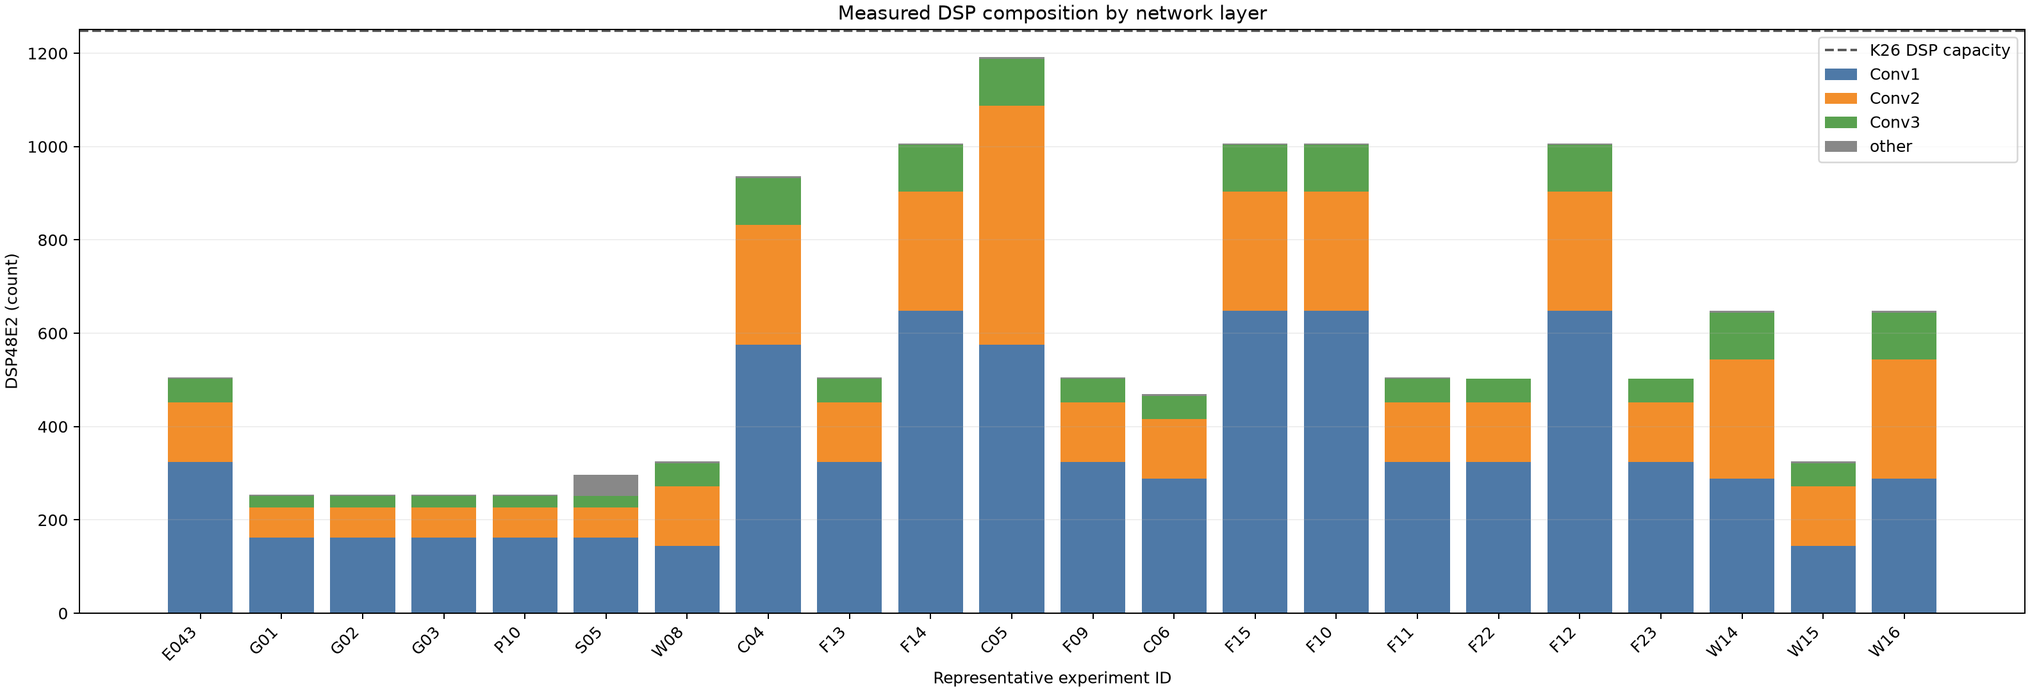
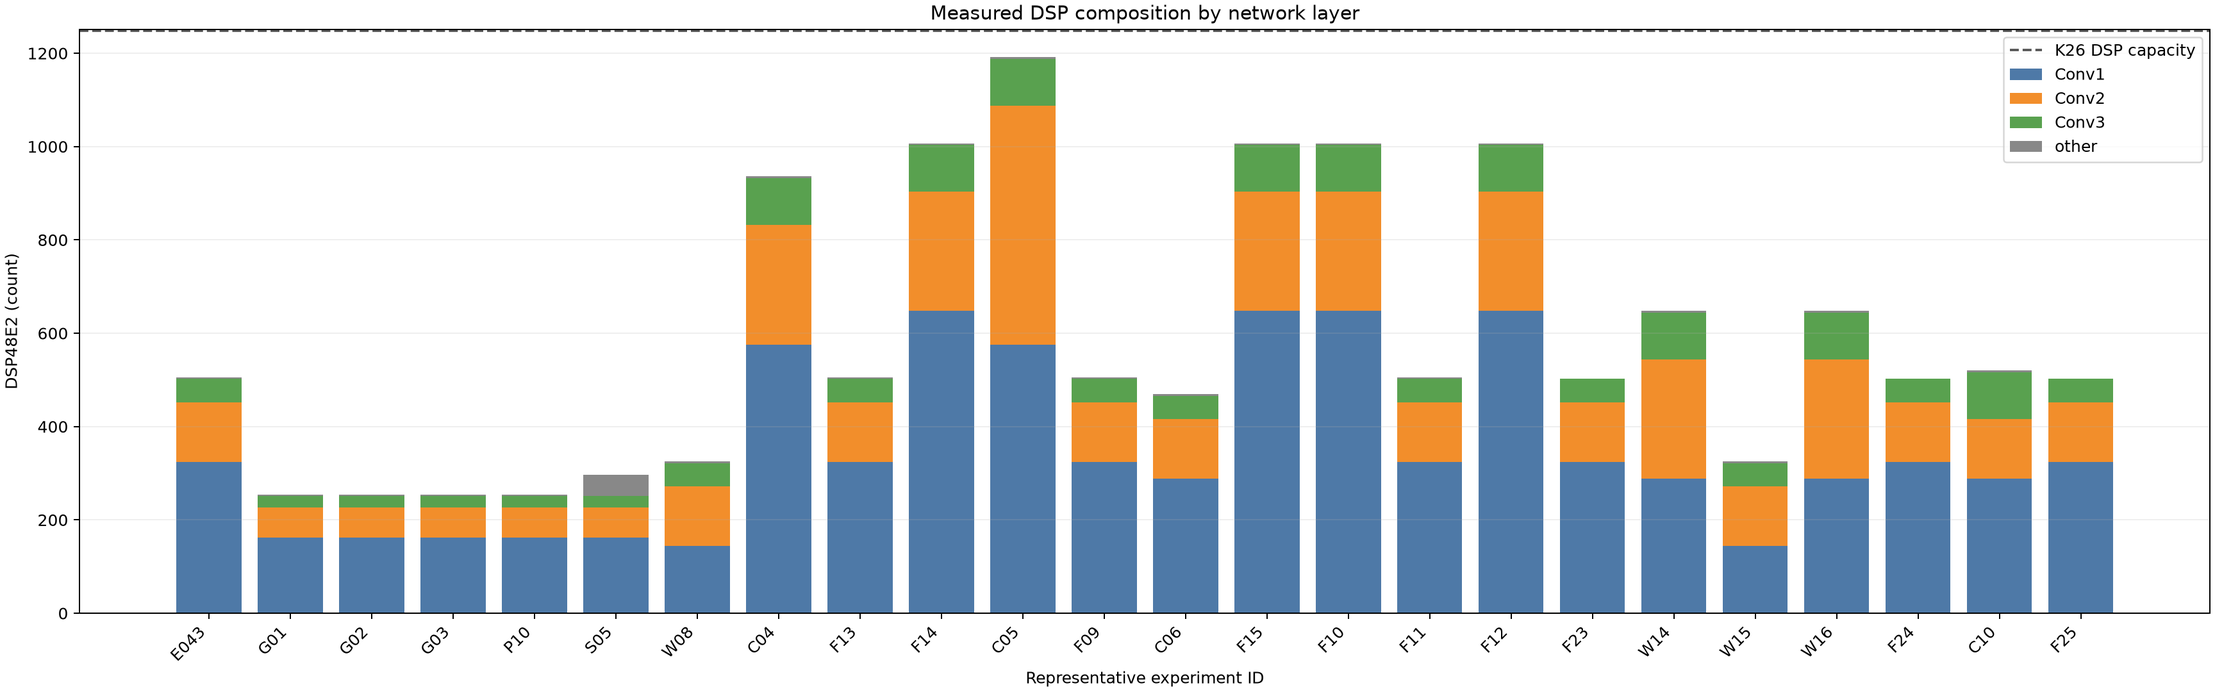
F25 update_estimate_figures_and_architecture_index

diff --git a/exp/plots/architectures.py b/exp/plots/architectures.py
@@ -39,7 +39,7 @@ frames = [row for row in rows if row["scope"] == "frame" and not row["operation"
           num(row,"latency_ms_est") is not None and num(row,"DSP") is not None and
           row["status"] in {"pass","provisional","infeasible"} and
           (row["series"] or row["id"] in {"E043","E057","E060"})]
-fig,ax = plt.subplots(figsize=(13,8),constrained_layout=True)
+fig,ax = plt.subplots(figsize=(15,10),constrained_layout=True)
 labels,grouped = [],{}
 for row in frames:
     grouped.setdefault((num(row,"DSP"),num(row,"latency_ms_est"),row["series"] or "E",
@@ -55,7 +55,9 @@ ax.grid(alpha=.2)
 ax.legend(handles=[Line2D([0],[0],marker="o",color=color,linestyle="",label=series+" series") for series,color in COLORS.items()]+
                   [Line2D([0],[0],marker="x",color="#444444",linestyle="",label="Resource infeasible")],fontsize=8)
 fig.canvas.draw()
-adjust_text(labels,ax=ax,iter_lim=350,arrowprops={"arrowstyle":"-","color":"#888888","lw":.5})
+fig.set_layout_engine("none")
+adjust_text(labels,ax=ax,iter_lim=1000,expand=(1.2,1.3),force_text=(.3,.5),
+            arrowprops={"arrowstyle":"-","color":"#888888","lw":.5})
 save(fig,"architecture_pareto.png")
 
 compositions = read("dsp_composition.csv")
@@ -82,39 +84,46 @@ for metric,unit,name in (("DSP","DSP48E2 (count)","estimate_actual_dsp.png"),
                          ("latency_cycles","Frame/kernel latency (cycles)","estimate_actual_cycles.png")):
     points = [row for row in estimates if row["metric"] == metric and num(row,"estimate") is not None and
               num(row,"actual") is not None and num(row,"estimate") >= 0 and num(row,"actual") >= 0]
-    fig,ax = plt.subplots(figsize=(10,8),constrained_layout=True)
-    texts = []
-    for row in points:
-        paper,actual = num(row,"estimate"),num(row,"actual")
-        ax.scatter(paper,actual,color=COLORS[row["series"]],marker="s" if row["scope"] == "PE" else "^" if row["scope"] == "layer" else "o",s=35)
-        texts.append(ax.text(paper,actual,row["id"],fontsize=7))
-    if points:
-        high = max(max(num(r,"estimate"),num(r,"actual")) for r in points)*1.4
-        includes_zero = any(num(r,"estimate") == 0 or num(r,"actual") == 0 for r in points)
-        positives = [num(r,key) for r in points for key in ("estimate","actual") if num(r,key) > 0]
-        low = min(positives)*.7 if positives else 1
-        high = max(high,low*2)
-        axis = np.geomspace(low,high,100)
-        if includes_zero:
-            axis = np.concatenate(([0],axis))
-        ax.plot(axis,axis,color="#555555",label="Estimate = actual")
-        ax.fill_between(axis,axis*.8,axis*1.2,color="#cccccc",alpha=.3,label="20% band")
-        if includes_zero:
-            ax.set_xscale("symlog",linthresh=1)
-            ax.set_yscale("symlog",linthresh=1)
-        else:
-            ax.set_xscale("log")
-            ax.set_yscale("log")
-    ax.set(title=f"Paper estimates vs measured {metric}",xlabel="Paper estimate: "+unit,ylabel="Parsed actual: "+unit)
-    ax.grid(alpha=.2)
-    handles,legend_labels = ax.get_legend_handles_labels()
+    fig,axes = plt.subplots(1,2,figsize=(17,8),width_ratios=(2,1),constrained_layout=True)
+    annotations = []
+    for ax,is_pe in zip(axes,(False,True)):
+        subset = [row for row in points if (row["scope"] == "PE") == is_pe]
+        texts, grouped = [], {}
+        for row in subset:
+            paper,actual = num(row,"estimate"),num(row,"actual")
+            ax.scatter(paper,actual,color=COLORS[row["series"]],marker="s" if is_pe else "^" if row["scope"] == "layer" else "o",s=35)
+            grouped.setdefault((paper,actual,row["series"],row["scope"]),[]).append(row["id"])
+        for (paper,actual,_,_),ids in grouped.items():
+            texts.append(ax.text(paper,actual,",".join(ids),fontsize=7))
+        if subset:
+            high = max(max(num(r,"estimate"),num(r,"actual")) for r in subset)*1.4
+            includes_zero = any(num(r,"estimate") == 0 or num(r,"actual") == 0 for r in subset)
+            positives = [num(r,key) for r in subset for key in ("estimate","actual") if num(r,key) > 0]
+            low = min(positives)*.7 if positives else 1
+            high = max(high,low*2)
+            axis = np.geomspace(low,high,100)
+            if includes_zero:
+                axis = np.concatenate(([0],axis))
+            ax.plot(axis,axis,color="#555555",label="Estimate = actual")
+            ax.fill_between(axis,axis*.8,axis*1.2,color="#cccccc",alpha=.3,label="20% band")
+            ax.set_xscale("symlog" if includes_zero else "log",**({"linthresh":1} if includes_zero else {}))
+            ax.set_yscale("symlog" if includes_zero else "log",**({"linthresh":1} if includes_zero else {}))
+        ax.set(title="Processing elements" if is_pe else "Full frames and layers",
+               xlabel="Paper estimate: "+unit,ylabel="Parsed actual: "+unit)
+        ax.grid(alpha=.2)
+        annotations.append((ax,texts))
+    handles,_ = axes[0].get_legend_handles_labels()
     handles += [Line2D([0],[0],marker="o",color=COLORS[series],linestyle="",label=series+" series")
                 for series in sorted({row["series"] for row in points})]
     handles += [Line2D([0],[0],marker=marker,color="#444444",linestyle="",label=label)
                 for marker,label in (("s","PE"),("^","Layer"),("o","Frame"))]
-    ax.legend(handles=handles,fontsize=7,ncol=2)
+    fig.legend(handles=handles,fontsize=8,ncol=6,loc="outside lower center")
+    fig.suptitle(f"Paper estimates vs measured {metric}")
     fig.canvas.draw()
-    adjust_text(texts,ax=ax,iter_lim=250,arrowprops={"arrowstyle":"-","color":"#888888","lw":.4})
+    fig.set_layout_engine("none")
+    for ax,texts in annotations:
+        adjust_text(texts,ax=ax,iter_lim=1000,expand=(1.2,1.3),force_text=(.3,.5),
+                    arrowprops={"arrowstyle":"-","color":"#888888","lw":.4})
     save(fig,name)
 
 g = [row for row in rows if row["id"] in {"G01","G02","G03"}]

diff --git a/experiments/ARCH_SUMMARY.md b/experiments/ARCH_SUMMARY.md
@@ -1,6 +1,6 @@
 # SRCNN K26 architecture exploration
 
-The fastest resource-feasible supplied-image point is [F24](F24_affine_weight_loader_T16_2p5ns/F24.md) at 2.830503377ms HLS-estimated latency. Packing and integer Winograd primitives pass exact checks, while full-network results include fabric, memory and scheduling costs absent from DSP-only budgets. Missing comic keeps every precision acceptance provisional; routed timing, RTL cycles and board validation are distinct evidence.
+The fastest resource-feasible supplied-image point is [F25](F25_nested_weight_loader_T16_2p5ns/F25.md) at 2.64226ms HLS-estimated latency. Packing and integer Winograd primitives pass exact checks, while full-network results include fabric, memory and scheduling costs absent from DSP-only budgets. Missing comic keeps every precision acceptance provisional; routed timing, RTL cycles and board validation are distinct evidence.
 
 Re-run frozen HLS records with fresh IDs using the [reproduction guide](REPRODUCE.md). Original reserved IDs remain immutable.
 
@@ -8,9 +8,9 @@ Re-run frozen HLS records with fresh IDs using the [reproduction guide](REPRODUC
 
 | id | design | precision_w_a_acc | T_target | clock_target_ns | clock_est_ns | latency_cycles | interval_cycles | latency_ms_est | DSP | BRAM18K | URAM | LUT | FF | delta_psnr | status |
 | --- | --- | --- | --- | --- | --- | --- | --- | --- | --- | --- | --- | --- | --- | --- | --- |
-| [F24](F24_affine_weight_loader_T16_2p5ns/F24.md) | designs/continuous_affine_load_v1 | w10a10acc23 | 16 | 2.5 | 2.699 | 1048723.0 | 1048724.0 | 2.830503377 | 502.0 | 73.0 | 0.0 | 69290.0 | 124577.0 | -0.0695141811880653 | provisional |
+| [F25](F25_nested_weight_loader_T16_2p5ns/F25.md) | designs/continuous_nested_load_v1 | w10a10acc23 | 16 | 2.5 | 2.377 | 1056904.0 | 1056905.0 | 2.64226 | 502.0 | 73.0 | 0.0 | 69976.0 | 125404.0 | -0.0695141811880653 | provisional |
 
-HLS-estimate improvement over first-phase E043: 2.4516x. This ratio is not a measured board speedup.
+HLS-estimate improvement over first-phase E043: 2.6262x. This ratio is not a measured board speedup.
 
 Actual verification of the current HLS winner:
 
@@ -130,7 +130,7 @@ An unimplemented raw-bank combination follow-up would still need about 96004.0 L
 
 Storage controls map shallow wide FIFOs to LUTRAM and Conv3 line banks to20 URAM. Continuous engines separate window generation, flatten pixel/fold iterations, shift fixed channel registers and register balanced fabric reductions. Old padding versus online read/emit padding isolates finite-FIFO row serialization. Clock/T controls test actual II, resource and timing limits; final RTL and routed measurements are separate from HLS estimates.
 
-Measured direction result: [F24](F24_affine_weight_loader_T16_2p5ns/F24.md) is its fastest provisional resource-feasible point at 2.830503377ms, with 502.0 DSP and 69290.0 LUT. RTL and routing must be assessed separately.
+Measured direction result: [F25](F25_nested_weight_loader_T16_2p5ns/F25.md) is its fastest provisional resource-feasible point at 2.64226ms, with 502.0 DSP and 69976.0 LUT. RTL and routing must be assessed separately.
 
 The exact IEEE output encoder [F20](F20_ieee_decode_bit_exact_sdk_retry_unique_object/F20.md) uses 0.0 DSP, 242.0 LUT and 52.0 FF at 2.051ns estimated clock; its legacy control [F21](F21_ieee_decode_legacy_control_sdk_retry_unique_object/F21.md) uses 3.0 DSP at 3.239ns. The independent network copy [F23](F23_continuous_ieee_T16_2p5ns/F23.md) keeps the same quantization and weights, reaches 2.822ns estimated clock and removes the legacy output scaling DSPs. Continuous folds reduce the repeated per-pixel pipeline fill/drain; assess finite-FIFO RTL cycles and routed timing in the final verification table independently of that HLS estimate.
 
@@ -140,6 +140,7 @@ Loader controls preserve all inference engines, precision and runtime parameters
 | --- | --- | --- | --- | --- | --- | --- | --- | --- | --- |
 | [F23](F23_continuous_ieee_T16_2p5ns/F23.md) | 2.5 | 2.822 | 1048730.0 | 2.95951606 | 502.0 | 73.0 | 70449.0 | 125618.0 | provisional |
 | [F24](F24_affine_weight_loader_T16_2p5ns/F24.md) | 2.5 | 2.699 | 1048723.0 | 2.830503377 | 502.0 | 73.0 | 69290.0 | 124577.0 | provisional |
+| [F25](F25_nested_weight_loader_T16_2p5ns/F25.md) | 2.5 | 2.377 | 1056904.0 | 2.64226 | 502.0 | 73.0 | 69976.0 | 125404.0 | provisional |
 
 | id | scope | T_target | latency_cycles | latency_ms_est | DSP | BRAM18K | URAM | LUT | FF | bit_exact | border_mse | ii_ok | status |
 | --- | --- | --- | --- | --- | --- | --- | --- | --- | --- | --- | --- | --- | --- |
@@ -167,6 +168,7 @@ Loader controls preserve all inference engines, precision and runtime parameters
 | [F12](F12_continuous_T8_online_3p33ns_split4000/F12.md) | frame | 8 | 528501.0 | 1.75990833 | 1007.0 | 73.0 | 0.0 | 97112.0 | 196314.0 | True | 1.661846957728205e-05 | True | infeasible |
 | [F23](F23_continuous_ieee_T16_2p5ns/F23.md) | frame | 16 | 1048730.0 | 2.95951606 | 502.0 | 73.0 | 0.0 | 70449.0 | 125618.0 | True | 1.661846957728205e-05 | True | provisional |
 | [F24](F24_affine_weight_loader_T16_2p5ns/F24.md) | frame | 16 | 1048723.0 | 2.830503377 | 502.0 | 73.0 | 0.0 | 69290.0 | 124577.0 | True | 1.661846957728205e-05 | True | provisional |
+| [F25](F25_nested_weight_loader_T16_2p5ns/F25.md) | frame | 16 | 1056904.0 | 2.64226 | 502.0 | 73.0 | 0.0 | 69976.0 | 125404.0 | True | 1.661846957728205e-05 | True | provisional |
 
 ## All Architectures
 
@@ -182,6 +184,7 @@ Frame records only, ordered by HLS-estimated latency. Microkernels and validatio
 | [W17](W17_narrow_raw_banks_T8/W17.md) | W | designs/winograd_rawbank_v1 | 8 | 2.130248 | 648.0 | 146.0 | 93166.0 | 122399.0 | -0.0695141811880653 | infeasible |
 | [W14](W14_fixed_tiles_T8_allcontinuous_4ns_split4000/W14.md) | W | designs/winograd_continuous_r2 | 8 | 2.130248 | 648.0 | 146.0 | 148013.0 | 182409.0 | -0.0695141811880653 | infeasible |
 | [C10](C10_wino_conv2w8_continuous_T8_split4000/C10.md) | C | designs/winograd_mixed_packing_r2 | 8 | 2.130248 | 520.0 | 146.0 | 150851.0 | 179452.0 | -0.07589037644656216 | infeasible |
+| [F25](F25_nested_weight_loader_T16_2p5ns/F25.md) | F | designs/continuous_nested_load_v1 | 16 | 2.64226 | 502.0 | 73.0 | 69976.0 | 125404.0 | -0.0695141811880653 | provisional |
 | [F24](F24_affine_weight_loader_T16_2p5ns/F24.md) | F | designs/continuous_affine_load_v1 | 16 | 2.830503377 | 502.0 | 73.0 | 69290.0 | 124577.0 | -0.0695141811880653 | provisional |
 | [F23](F23_continuous_ieee_T16_2p5ns/F23.md) | F | designs/continuous_ieee_v1 | 16 | 2.95951606 | 502.0 | 73.0 | 70449.0 | 125618.0 | -0.0695141811880653 | provisional |
 | [F22](F22_continuous_ieee_T16_3ns/F22.md) | F | designs/continuous_ieee_v1 | 16 | 3.146133 | 502.0 | 73.0 | 69483.0 | 121696.0 | -0.0695141811880653 | provisional |
@@ -336,6 +339,7 @@ All numeric values come from frozen plans and parsed reports. Actual means csynt
 | [W16](W16_fixed_tiles_T8_allcontinuous_3p33ns_split4000/W16.md) | frame | 647.0 | 648.0 | 0.15455950540959051 | 620200.0 | 532569.0 | -14.129474363108674 | infeasible |
 | [F24](F24_affine_weight_loader_T16_2p5ns/F24.md) | frame | 502.0 | 502.0 | 0.0 | 1068730.0 | 1048723.0 | -1.8720350322345203 | provisional |
 | [C10](C10_wino_conv2w8_continuous_T8_split4000/C10.md) | frame | 519.0 | 520.0 | 0.19267822736031004 | 620200.0 | 532562.0 | -14.13060303128023 | infeasible |
+| [F25](F25_nested_weight_loader_T16_2p5ns/F25.md) | frame | 502.0 | 502.0 | 0.0 | 1068723.0 | 1056904.0 | -1.1058992835374593 | provisional |
 
 Largest percentage deviations (a zero paper denominator has no percentage):
 
@@ -404,6 +408,7 @@ DATAFLOW warnings are retained in [dataflow_warnings.csv](dataflow_warnings.csv)
 | [W16](W16_fixed_tiles_T8_allcontinuous_3p33ns_split4000/W16.md) | 5 | infeasible |
 | [F24](F24_affine_weight_loader_T16_2p5ns/F24.md) | 5 | provisional |
 | [C10](C10_wino_conv2w8_continuous_T8_split4000/C10.md) | 5 | infeasible |
+| [F25](F25_nested_weight_loader_T16_2p5ns/F25.md) | 5 | provisional |
 
 ## Failed Directions
 
@@ -479,4 +484,4 @@ Use the best exact resource-feasible architecture as the integration candidate o
 
 ![Conv3 core and pad resource comparison](figs/conv3_core_resources.png)
 
-Generated from archived evidence at 2026-10-11T02:54:12+00:00.
+Generated from archived evidence at 2026-10-11T03:06:19+00:00.

diff --git a/experiments/F25_nested_weight_loader_T16_2p5ns/F25.md b/experiments/F25_nested_weight_loader_T16_2p5ns/F25.md
@@ -72,13 +72,11 @@ Independent frozen F24 source copy; add LOOP_FLATTEN off to the Conv1 weight loa
 python3 exp/reproduce_exp.py F25 --run
 ```
 
-This allocates a new ID and restores frozen sources; see [reproduction guide](../REPRODUCE.md). Original reserved invocation:
+Allocates a fresh ID and restores frozen design/testbench sources; verification also rebuilds its parent. See [reproduction guide](../REPRODUCE.md). Original reserved invocation:
 
 ```sh
 python3 exp/run_exp.py --config exp/configs/F25.json
 ```
-
-Settings path is recorded in config.json.
 
 ## 5. Results / 结果
 
@@ -121,18 +119,6 @@ Settings path is recorded in config.json.
 | git_commit | ab5c5e94beb6f6f1374e9bb547b27bf6fe1e055a |
 | md_path | F25_nested_weight_loader_T16_2p5ns/F25.md |
 | notes | unknown |
-
-<!-- AUTO: resource percentages -->
-
-| resource | count | device_capacity | device_pct | gate_pct | within_gate |
-| --- | --- | --- | --- | --- | --- |
-| DSP | 502.0 | 1248 | 40.22435897435897 | 100 | True |
-| BRAM18K | 73.0 | 288 | 25.34722222222222 | 100 | True |
-| URAM | 0.0 | 64 | 0.0 | 100 | True |
-| LUT | 69976.0 | 117120 | 59.74726775956284 | 70.0 | True |
-| FF | 125404.0 | 234240 | 53.536543715846996 | 70.0 | True |
-
-<!-- END: resource percentages -->
 
 ### Pipeline loops
 
@@ -192,9 +178,88 @@ Settings path is recorded in config.json.
 | windows3 | 0.0 | 36.0 | 0.0 | 6025.0 | 19318.0 |
 | write_output | 0.0 | 0.0 | 0.0 | 565.0 | 406.0 |
 
+<!-- AUTO: resource percentages -->
+
+| resource | count | device_capacity | device_pct | gate_pct | within_gate |
+| --- | --- | --- | --- | --- | --- |
+| DSP | 502.0 | 1248 | 40.22435897435897 | 100 | True |
+| BRAM18K | 73.0 | 288 | 25.34722222222222 | 100 | True |
+| URAM | 0.0 | 64 | 0.0 | 100 | True |
+| LUT | 69976.0 | 117120 | 59.74726775956284 | 70.0 | True |
+| FF | 125404.0 | 234240 | 53.536543715846996 | 70.0 | True |
+
+<!-- END: resource percentages -->
+
 ## 6. Interpretation / 解读
 
 Compare F24/F25 loader loop depth, restart cycles and clock, separately from unchanged inference II. Turning off flattening can trade a simpler counter path for repeated pipeline fill/drain. Preserve negative timing/resource outcomes and stop this control investigation after the measured comparison.
+
+Continuous scheduling separates window generation and MAC folds, shifts channel registers and explicitly registers fabric reduction trees. This can remove pixel fill/drain but costs pipeline registers and wide window FIFOs. Online padding overlaps source reads with padded writes; old row serialization can create finite-FIFO stalls absent from maximum-component HLS estimates. RTL cycles and routed slack remain the final evidence.
+
+Estimate audit (parsed values; zero estimates have no percentage denominator):
+
+| metric | estimate | actual | deviation_pct | over20pct |
+| --- | --- | --- | --- | --- |
+| DSP | 502.0 | 502.0 | 0.0 | False |
+| BRAM18K | 73.0 | 73.0 | 0.0 | False |
+| URAM | 0.0 | 0.0 | unknown | False |
+| LUT | 69790.0 | 69976.0 | 0.2665138271958689 | False |
+| FF | 125577.0 | 125404.0 | -0.1377640810020897 | False |
+| latency_cycles | 1068723.0 | 1056904.0 | -1.1058992835374593 | False |
+
+Whole layer evidence from csynth XML (child pipeline reports are not added again):
+
+| module | latency_cycles | DSP | BRAM18K | LUT | FF |
+| --- | --- | --- | --- | --- | --- |
+| conv1_stream | 1040416.0 | 324.0 | 8.0 | 9749.0 | 46528.0 |
+| conv2_stream | 1040413.0 | 128.0 | 0.0 | 3629.0 | 17780.0 |
+| conv3_stream | 1040415.0 | 50.0 | 36.0 | 19190.0 | 34772.0 |
+
+Measured control-module comparison (identical precision and T):
+
+| id | module | clock_est_ns | latency_cycles | DSP | BRAM18K | LUT | FF |
+| --- | --- | --- | --- | --- | --- | --- | --- |
+| F24 | srcnn_Pipeline_load1_channels_load1_rows_load1 | 2.699 | 5194.0 | 0.0 | 0.0 | 2116.0 | 1061.0 |
+| F25 | srcnn_Pipeline_load1 | 1.825 | 21.0 | 0.0 | 0.0 | 2714.0 | 1660.0 |
+
+Only the Conv1 loader organization changes in this control pair. F24's report removes the quotient-address multiplier but identifies the flattened kx counter's compare/and/select/add/store path as the new clock limit. F25 tests an unflattened inner loop; its counter clock must be weighed against repeated pipeline drain. The inference engines, coefficient precision and runtime parameter contract remain identical.
+
+Pipeline depth and II evidence; nested pixel schedules pay the reported iteration latency at every restart:
+
+| module | loop | IterationLatency | PipelineDepth | actual_ii | target_ii | ii_ok |
+| --- | --- | --- | --- | --- | --- | --- |
+| conv2_stream | continuous_c2_fold | unknown | 13 | 1.0 | 1 | True |
+| engine1 | continuous_c1_fold | unknown | 14 | 1.0 | 1 | True |
+| engine3 | continuous_c3_fold | unknown | 13 | 1.0 | 1 | True |
+| online_pad_ap_int_10_4_Pipeline_online_bottom_repeats_online_bottom_write | online_bottom_repeats_online_bottom_write | unknown | 4 | 1.0 | 1 | True |
+| online_pad_ap_int_10_4_Pipeline_online_first_read | online_first_read | unknown | 3 | 1.0 | 1 | True |
+| online_pad_ap_int_10_4_Pipeline_online_first_repeats_online_first_write | online_first_repeats_online_first_write | unknown | 4 | 1.0 | 1 | True |
+| online_pad_ap_int_10_4_Pipeline_online_rows_online_columns | online_rows_online_columns | unknown | 5 | 1.0 | 1 | True |
+| online_pad_pixel2_2_Pipeline_online_bottom_repeats_online_bottom_write | online_bottom_repeats_online_bottom_write | unknown | 4 | 1.0 | 1 | True |
+| online_pad_pixel2_2_Pipeline_online_first_read | online_first_read | unknown | 3 | 1.0 | 1 | True |
+| online_pad_pixel2_2_Pipeline_online_first_repeats_online_first_write | online_first_repeats_online_first_write | unknown | 4 | 1.0 | 1 | True |
+| online_pad_pixel2_2_Pipeline_online_rows_online_columns | online_rows_online_columns | unknown | 5 | 1.0 | 1 | True |
+| read_input | read_pixels | unknown | 21 | 1.0 | 1 | True |
+| srcnn_Pipeline_VITIS_LOOP_455_1 | VITIS_LOOP_455_1 | unknown | 11 | 1.0 | 1 | True |
+| srcnn_Pipeline_VITIS_LOOP_456_2 | VITIS_LOOP_456_2 | unknown | 11 | 1.0 | 1 | True |
+| srcnn_Pipeline_load1 | load1 | unknown | 12 | 1.0 | 1 | True |
+| srcnn_Pipeline_load2 | load2 | unknown | 20 | 1.0 | 1 | True |
+| srcnn_Pipeline_load3 | load3 | unknown | 22 | 1.0 | 1 | True |
+| windows1 | make_windows1 | unknown | 3 | 1.0 | 1 | True |
+| windows3 | make_windows3 | unknown | 3 | 1.0 | 1 | True |
+| write_output | write_pixels | unknown | 10 | 1.0 | 1 | True |
+
+DATAFLOW scheduling warnings parsed from csynth.log.txt:
+
+| warning |
+| --- |
+| WARNING: [HLS 200-1449] Process engine1 has both a predecessor and reads an input from its caller (see the GUI dataflow viewer). This may lead to lower throughput. Consider copying this input via a predecessor process. |
+| WARNING: [HLS 200-1449] Process conv2_stream has both a predecessor and reads an input from its caller (see the GUI dataflow viewer). This may lead to lower throughput. Consider copying this input via a predecessor process. |
+| WARNING: [HLS 200-1449] Process engine3 has both a predecessor and reads an input from its caller (see the GUI dataflow viewer). This may lead to lower throughput. Consider copying this input via a predecessor process. |
+| WARNING: [HLS 200-1449] Process conv12 has both a predecessor and reads an input from its caller (see the GUI dataflow viewer). This may lead to lower throughput. Consider copying this input via a predecessor process. |
+| WARNING: [HLS 200-1449] Process conv3_stream has both a predecessor and reads an input from its caller (see the GUI dataflow viewer). This may lead to lower throughput. Consider copying this input via a predecessor process. |
+
+Caller inputs are read-only weights loaded before DATAFLOW; their start synchronization may limit overlap. C simulation uses unbounded software streams, so only finite-FIFO RTL profiling can establish the resulting throughput and absence of deadlock.
 
 ## 7. Conclusion and next step / 结论与下一步
 

diff --git a/experiments/P08_builtin_mapping_implementation/P08.md b/experiments/P08_builtin_mapping_implementation/P08.md
@@ -84,18 +84,6 @@ HLS prediction and precision provenance:
 
 Parent loop II and per-module resources are in the linked parent archive; verification resources are distinct from csynth.
 
-<!-- AUTO: resource percentages -->
-
-| resource | count | device_capacity | device_pct | gate_pct | within_gate |
-| --- | --- | --- | --- | --- | --- |
-| DSP | 1.0 | 1248 | 0.08012820512820513 | 100 | True |
-| BRAM18K | 0.0 | 288 | 0.0 | 100 | True |
-| URAM | 0.0 | 64 | 0.0 | 100 | True |
-| LUT | 127.0 | 117120 | 0.10843579234972678 | 70.0 | True |
-| FF | 162.0 | 234240 | 0.06915983606557377 | 70.0 | True |
-
-<!-- END: resource percentages -->
-
 
 <!-- AUTO: tracked verification reports -->
 
@@ -107,6 +95,18 @@ Archived copies of the original parsed verification reports; numerical results a
 | hls/impl/verilog/report/packing_pe_utilization_routed.rpt | reports/impl/packing_pe_utilization_routed.rpt | 7a32648d3706ca6eb5281d04bcaab5cd6932d4550f4a310db7a6c1069e9e9093 |
 
 <!-- END: tracked verification reports -->
+
+<!-- AUTO: resource percentages -->
+
+| resource | count | device_capacity | device_pct | gate_pct | within_gate |
+| --- | --- | --- | --- | --- | --- |
+| DSP | 1.0 | 1248 | 0.08012820512820513 | 100 | True |
+| BRAM18K | 0.0 | 288 | 0.0 | 100 | True |
+| URAM | 0.0 | 64 | 0.0 | 100 | True |
+| LUT | 127.0 | 117120 | 0.10843579234972678 | 70.0 | True |
+| FF | 162.0 | 234240 | 0.06915983606557377 | 70.0 | True |
+
+<!-- END: resource percentages -->
 
 ## 6. Interpretation / 解读
 

diff --git a/experiments/LOG.md b/experiments/LOG.md
@@ -309,6 +309,8 @@
 
 - 2026-10-11T03:03:01+00:00: F25: archived existing routed/RTL source reports at Git-visible neutral report paths for E070, P08; original ignore rules, sources and measurements unchanged.
 
+- 2026-10-11T03:11:05+00:00: F25: refreshed architecture index and CSV-derived figures; separated frame/layer and PE estimate panels, grouped identical labeled points and increased label separation. Audited all 75 completed frozen plans, metric records and archived sources without mismatch.
+
 ## Pending Human Decisions / 待人工决策
 
 - 2026-10-10T23:19:34+00:00: Winograd's requested offline weight transform conflicts with accepting arbitrary original float weight arrays at the frozen srcnn signature. Keep the internal runtime load/transform stage, include its measured cycles/resources and archive the equivalent pretrained G2 tensor. Removing runtime transformation requires an approved transformed-weight contract or a specialized constant-weight wrapper; no such interface change is made in this unattended run.
